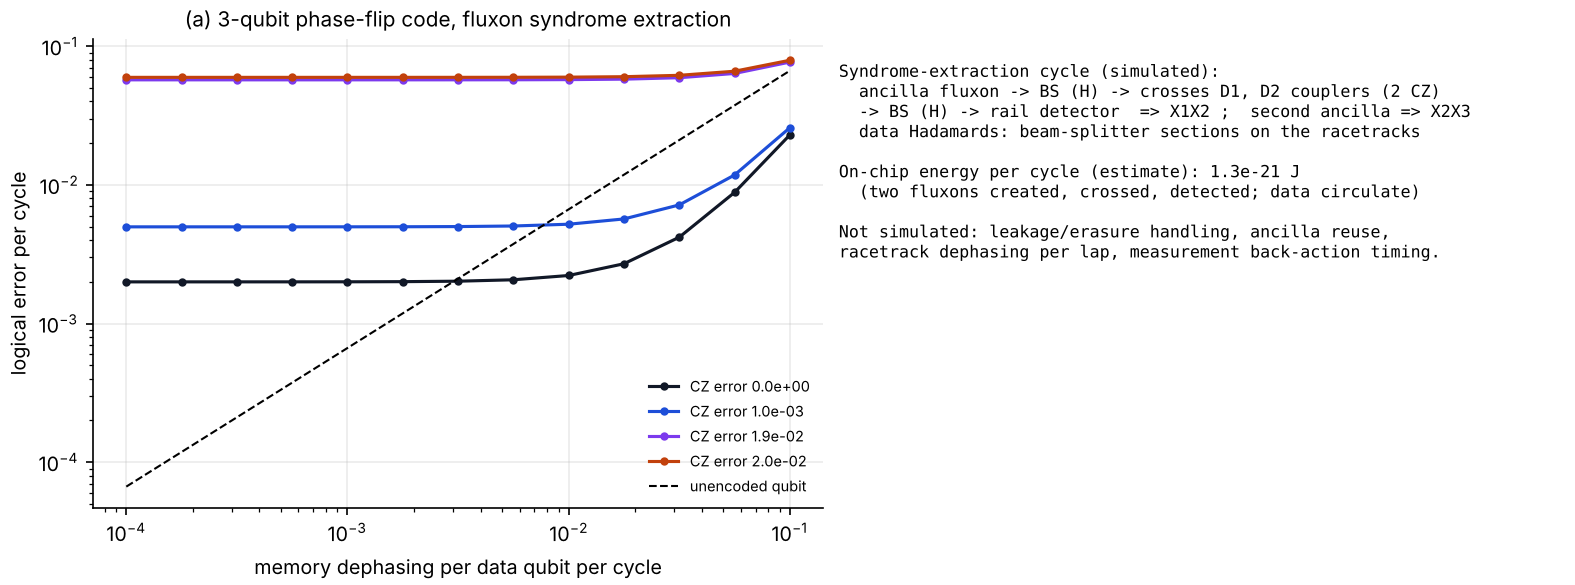
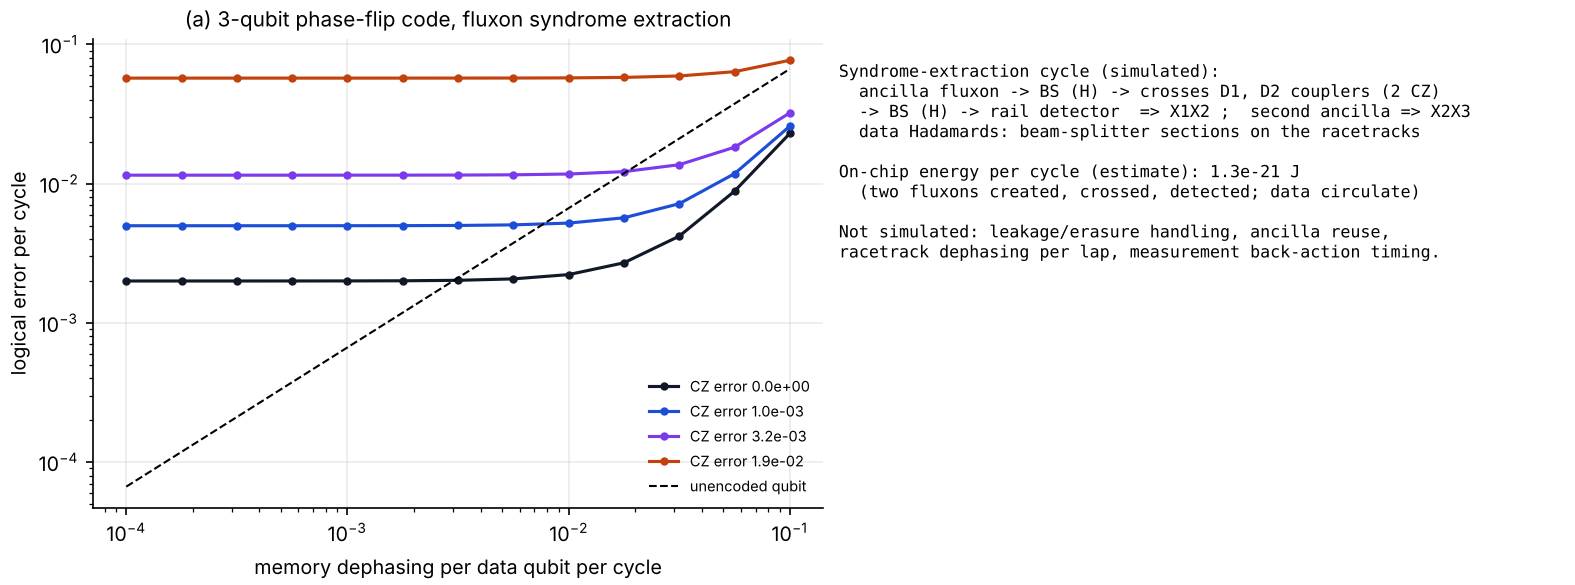
QBF-X2 companion 5: QEC cycle re-run with the launcher-based CZ error (0.32 %)
The 3-qubit phase-flip syndrome cycle now breaks even for memory errors of 3.2-10 % per cycle.
With the old thermal-source launch error (1.9 %) it never broke even; both are reported.

Claude-Session: https://claude.ai/code/session_01E9kwoWzrXajZvAqS1JwnLM

diff --git a/qbf-x2/simulations/companions/c5_qec.py b/qbf-x2/simulations/companions/c5_qec.py
@@ -107,13 +107,18 @@ def logical_error(p_mem, e_cz, p_m):
 
 try:
     C = json.load(open(os.path.join(ROOT, "results", "C_gate.json")))
-    e_opt = C["optimum_validation"]["budget"]["total"]
+    e_thermal = C["optimum_validation"]["budget"]["total"]          # thermal-source launch (old assumption)
 except Exception:
-    e_opt = 5e-3
-res = dict(e_cz_from_budget=e_opt)
+    e_thermal = 1.9e-2
+try:
+    Ld = json.load(open(os.path.join(ROOT, "results", "D_launcher.json")))
+    e_opt = Ld["budget_launcher"]["total"]                            # modelled coherent launcher (milestone D)
+except Exception:
+    e_opt = e_thermal
+res = dict(e_cz_from_budget=e_opt, e_cz_thermal_source_launch=e_thermal)
 ps = np.logspace(-4, -1, 13)
 curves = {}
-for e_cz in (0.0, 1e-3, e_opt, 2e-2):
+for e_cz in sorted({0.0, 1e-3, e_opt, e_thermal, 2e-2}):
     curves[f"{e_cz:.1e}"] = [logical_error(p, e_cz, p_m=1e-3) for p in ps]
     print(f"e_cz {e_cz:.1e}:", [f"{v:.1e}" for v in curves[f"{e_cz:.1e}"]])
 res["logical_error_per_cycle"] = dict(p_memory=ps, curves=curves, p_meas=1e-3)
@@ -151,7 +156,7 @@ ax[1].text(0.0, 0.95, "Syndrome-extraction cycle (simulated):\n"
            "racetrack dephasing per lap, measurement back-action timing.",
            va="top", family="monospace", fontsize=8)
 savefig(fig, "companion5_qec.png")
-be_opt, be_1e3 = be[f"{e_opt:.1e}"], be["1.0e-03"]
+be_opt, be_1e3, be_th = be[f"{e_opt:.1e}"], be["1.0e-03"], be[f"{e_thermal:.1e}"]
 res["verdict"] = (
     "Density-matrix simulation of one fluxon-driven syndrome-extraction cycle of a 3-qubit phase-flip code. "
     + (f"With the CZ error of the QBF-X2 budget ({e_opt:.1e}) the code beats an unencoded qubit for memory errors of "
@@ -160,6 +165,7 @@ res["verdict"] = (
        f"{ps[0]:.0e}-{ps[-1]:.0e} per cycle tested). ")
     + (f"With a 1e-3 CZ error it breaks even for memory errors of {be_1e3[0]:.2g}-{be_1e3[1]:.2g} per cycle (upper end = "
        f"edge of the tested range). " if be_1e3 else "")
+    + (f"With the thermal-source launch ({e_thermal:.1e}) it never breaks even. " if not be_th else "")
     + "A full QEC module (larger codes, repeated cycles, real-time decoding, leakage handling) is beyond this study; "
       "no fluxon-driven syndrome extraction has been reported experimentally.")
 save_json("companion5_qec.json", res)
